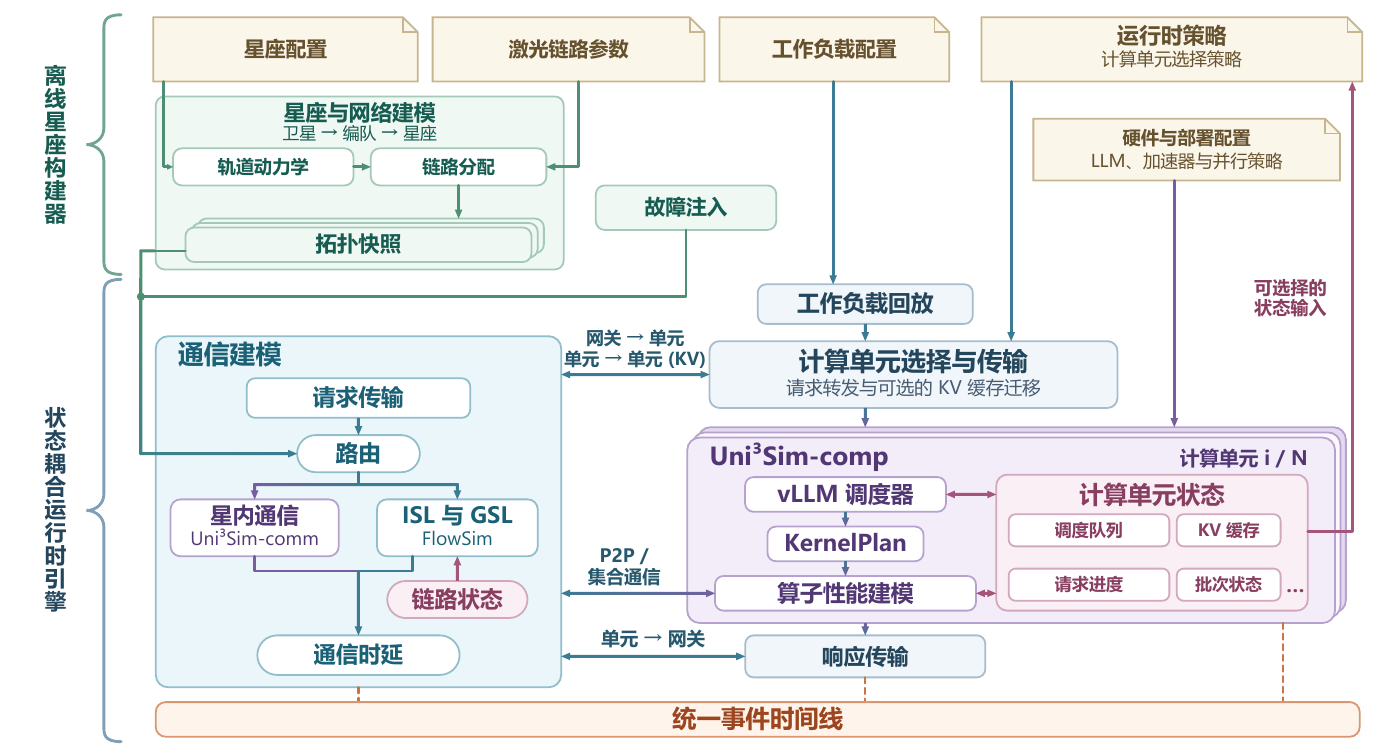
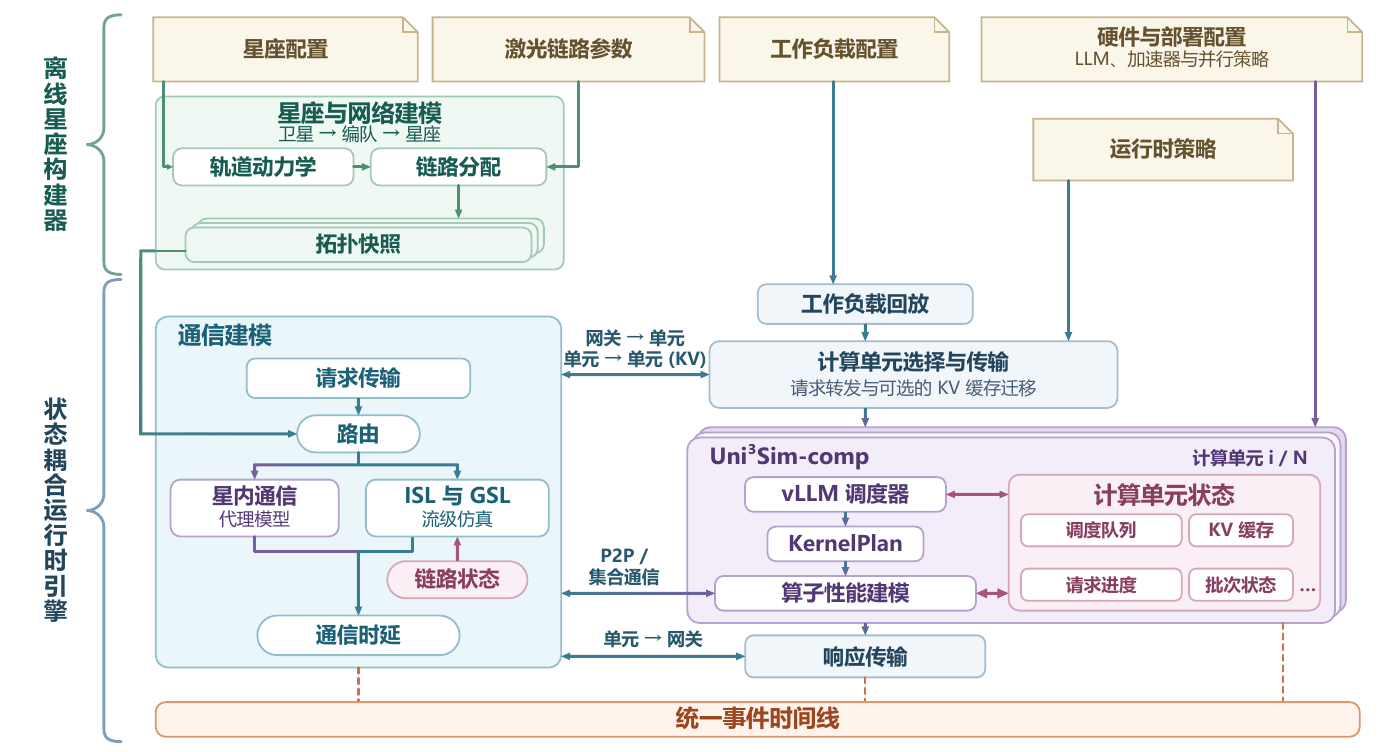
Update AsterMind overview and simplify DeepSeek example setup

diff --git a/viz/cell_worker.py b/viz/cell_worker.py
@@ -1,5 +1,6 @@
 """Subprocess entry point for a V1 Cell run."""
 import json
+import os
 import sys
 import traceback
 from datetime import datetime,timezone
@@ -17,6 +18,12 @@ def main():
         from astermind.engine.simulation import Simulation
         from astermind.__main__ import json_default
         config=SimulationConfig.load(output/'effective_configuration.json')
+        cell = config.cells[0]
+        if (config.compute_mode == 'detail_mode' and cell.hardware_id == 'nvidia_h200'
+                and cell.model == 'configs/model/deepseek-v4-pro.json'):
+            from compute_options import DEEPSEEK_V4_H200_MEMORY_POLICY
+            os.environ.setdefault('ORBITServe_V4_EXPERIMENTAL_MEMORY_PROJECTION',
+                                  str(DEEPSEEK_V4_H200_MEMORY_POLICY))
         update(status='running',phase='configuration',progress=5,started_at=datetime.now(timezone.utc).isoformat())
         with Simulation(config,physical_output_dir=output/'physical',startup_progress=lambda stage:
                         update(phase=stage['phase'],progress=20,startup_stage=stage)) as simulation:
@@ -27,7 +34,7 @@ def main():
         write(output/'result.json',project(result))
         write(output/'requests.json',[dict(id=k,**v) for k,v in result['requests'].items()])
         write(output/'communication_events.json',result.get('communication_events',[]))
-        write(output/'placement.json',config.cells[0].model_dump(mode='json')['placements'])
+        write(output/'placement.json',cell.model_dump(mode='json')['placements'])
         write(output/'batches.json',result.get('batches',[]))
         update(status='success',phase='completed',progress=100,simulation_status=result['status'],finished_at=datetime.now(timezone.utc).isoformat())
     except Exception as error:

diff --git a/viz/compute_options.py b/viz/compute_options.py
@@ -7,6 +7,8 @@ from pathlib import Path
 
 from paths import REPOSITORY, RUNTIME
 
+DEEPSEEK_V4_H200_MEMORY_POLICY = REPOSITORY / 'tests/L2/deepseek-v4-h200-memory.json'
+
 
 def memory_policies():
     """Return named files the operator has made available to the web service."""
@@ -16,7 +18,7 @@ def memory_policies():
         for file in sorted(directory.glob('*.json'))
         if file.is_file() and file.resolve().is_relative_to(directory)
     }
-    example = REPOSITORY / 'tests/L2/deepseek-v4-h200-memory.json'
+    example = DEEPSEEK_V4_H200_MEMORY_POLICY
     if example.is_file():
         policies.setdefault('deepseek-v4-h200-memory.json', example.resolve())
     return policies

diff --git a/README.md b/README.md
@@ -1,4 +1,4 @@
-# <img src="assets/astermind-logo.png" alt="" width="44" align="middle"> AsterMind
+# <img src="assets/astermind-logo.png" alt="" width="36" align="absmiddle"> AsterMind
 
 English · [简体中文](README.zh-CN.md)
 
@@ -25,7 +25,7 @@ AsterMind simulates how satellites serve inference requests from users on Earth.
 
 ## Build and Install
 
-**Prerequisites.** x86-64 Ubuntu 24.04, Python 3.12 with `venv`, Git, a C/C++ toolchain, Node.js with npm, and `libnuma.so.1`. The examples run on the CPU without model weights or a GPU.
+**Prerequisites.** x86-64 Linux with glibc 2.39 or newer (for example, Ubuntu 24.04), Python 3.12 with `venv`, Git, a C/C++ toolchain, Node.js with npm, and `libnuma.so.1`. The examples run on the CPU without model weights or a GPU.
 
 ```bash
 git clone --branch version/AsterMind-V1.0 https://github.com/GUANYU-Tech/OrbitServe.git AsterMind
@@ -51,13 +51,13 @@ viz/                             Local frontend for L2 and L3
 
 ### Open the Frontend
 
-Start the local service with the DeepSeek-V4-Pro example preset. The 3D previews require a browser with WebGL 2.
+Start the local service. The 3D previews require a browser with WebGL 2.
 
 ```bash
-bash scripts/run.sh --deepseek-v4-example
+bash scripts/run.sh
 ```
 
-Open the [English homepage](http://localhost:8766/en/) and enter the simulation platform.
+Open the [homepage](http://localhost:8766/en/).
 
 | Simulation scope | Frontend | Example |
 | --- | --- | --- |
